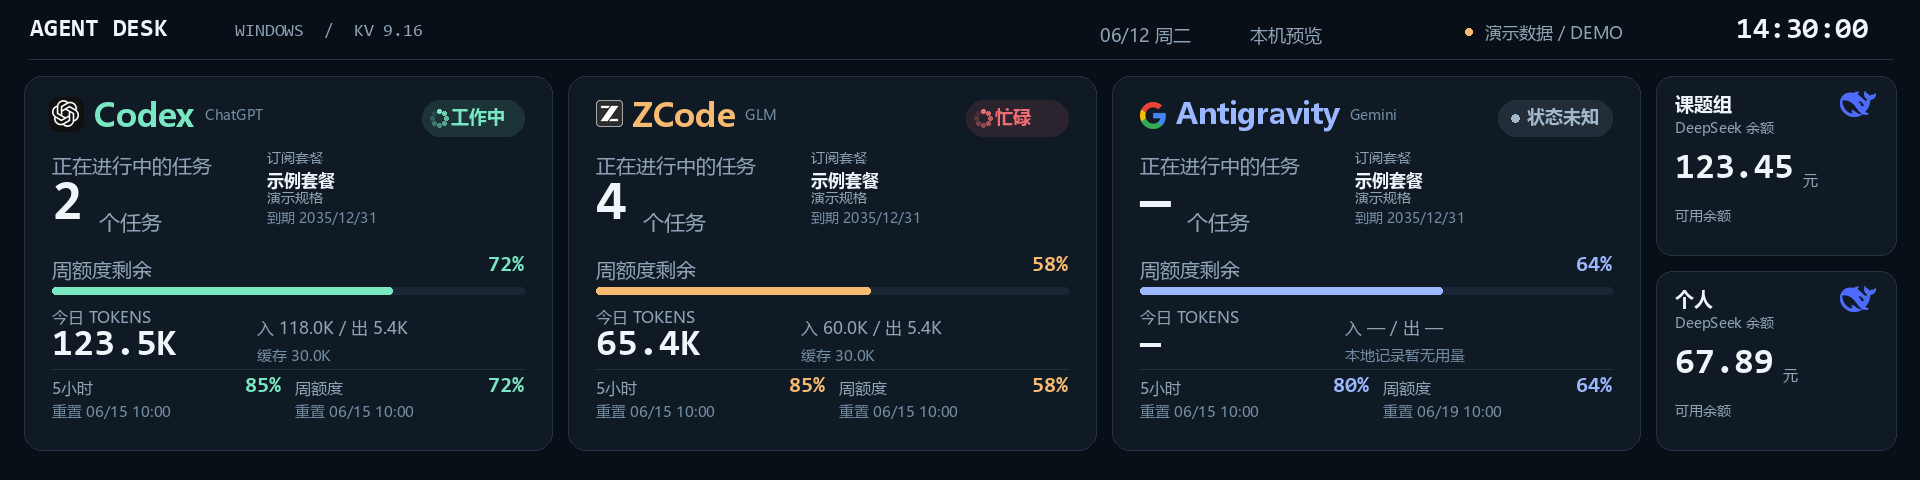
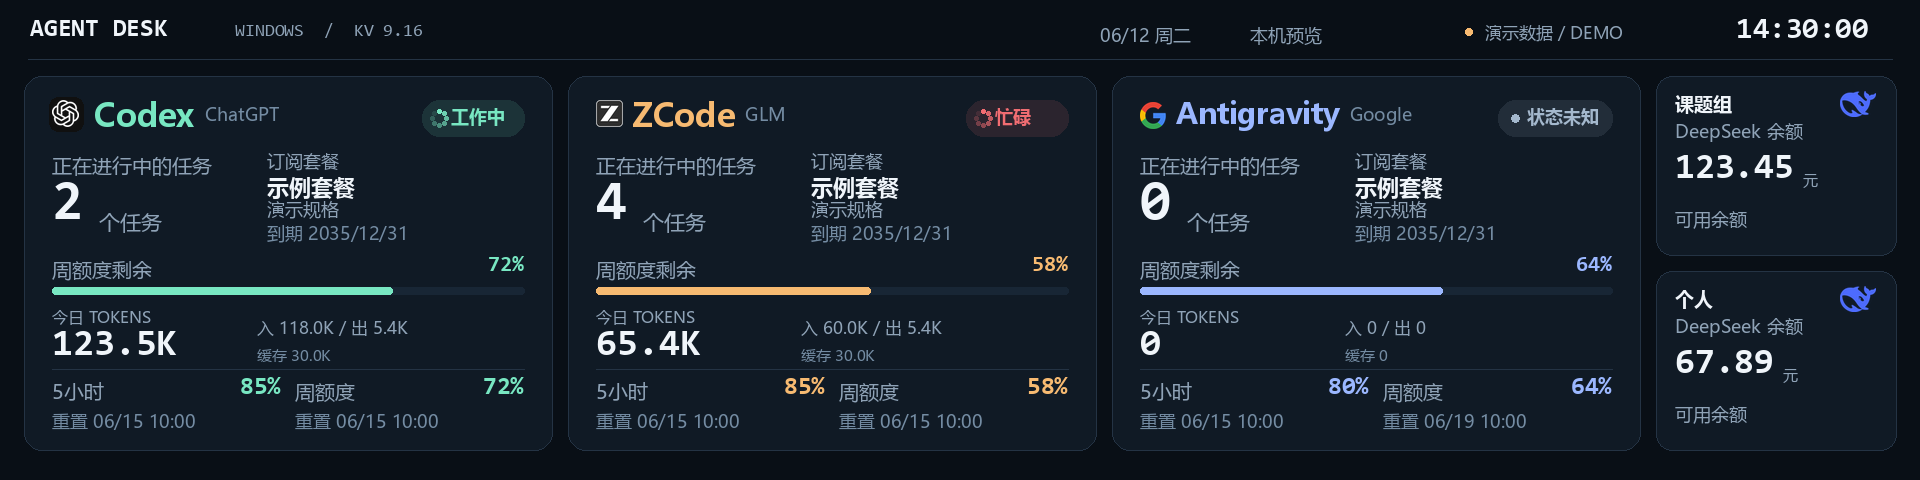
Enlarge dashboard details and show zero for empty usage and tasks

diff --git a/agent_dashboard/render.py b/agent_dashboard/render.py
@@ -47,7 +47,7 @@ _DEFAULT_GEOMETRY = {
 _DEFAULT_RADIUS = {"classic": 18, "aurora": 24, "paper": 10}
 _LOGO_FILES = {"chatgpt": "chatgpt.png", "glm": "glm.png", "google": "google.png", "deepseek": "deepseek.png"}
 _PROVIDER_LOGOS = {"codex": "chatgpt", "zcode": "glm", "antigravity": "google"}
-_PROVIDER_TAGS = {"codex": "ChatGPT", "zcode": "GLM", "antigravity": "Gemini"}
+_PROVIDER_TAGS = {"codex": "ChatGPT", "zcode": "GLM", "antigravity": "Google"}
 
 # Compatibility constants for callers that used the original classic palette.
 BG = _PALETTES["classic"]["background"]
@@ -96,8 +96,9 @@ def short(draw: ImageDraw.ImageDraw, text: object, ft: ImageFont.ImageFont, widt
 
 
 def number(value: int | None) -> str:
+    """Format Token counts, using zero when no usage has been observed."""
     if value is None:
-        return "—"
+        return "0"
     if value >= 1_000_000_000:
         return f"{value / 1_000_000_000:.2f}B"
     if value >= 1_000_000:
@@ -322,7 +323,7 @@ def _draw_agent_header(image: Image.Image | None, draw: ImageDraw.ImageDraw, dat
 
     state_font = font(18, True, scale=scale)
     title_font = font(32 if provider != "antigravity" else 29, True, scale=scale)
-    tag_font = font(14, False, scale=scale)
+    tag_font = font(18, False, scale=scale)
     chip_width = max(102, int(draw.textlength(label, font=state_font)) + 42)
     chip_left = right - chip_width
     draw.rounded_rectangle((chip_left, y + 24, right, y + 60), radius=18,
@@ -358,7 +359,10 @@ def _draw_agent_header(image: Image.Image | None, draw: ImageDraw.ImageDraw, dat
         tag_x = title_x + title_width + 10
         remaining = chip_left - tag_x - 8
         if remaining >= 30:
-            draw.text((tag_x, y + 29), short(draw, tag, tag_font, remaining), fill=colors["subtle"], font=tag_font)
+            tag = short(draw, tag, tag_font, remaining)
+            _, tag_top, _, tag_bottom = draw.textbbox((0, 0), tag, font=tag_font)
+            tag_y = round(center_y - (tag_top + tag_bottom) / 2)
+            draw.text((tag_x, tag_y), tag, fill=colors["subtle"], font=tag_font)
     return left, right
 
 
@@ -394,8 +398,8 @@ def _draw_plan(draw: ImageDraw.ImageDraw, data: dict, x: int, y: int, width: int
     colors, scale = design["colors"], design["font_scale"]
     subscription = data.get("subscription") or {}
     if compact:
-        prefix_font, value_font, detail_font = font(14, scale=scale), font(17, True, scale=scale), font(14, scale=scale)
-        line_gap = 20
+        prefix_font, value_font, detail_font = font(18, scale=scale), font(22, True, scale=scale), font(18, scale=scale)
+        line_gap = 24
     else:
         prefix_font, value_font, detail_font = font(16, scale=scale), font(22, True, scale=scale), font(16, scale=scale)
         line_gap = 27
@@ -416,7 +420,7 @@ def _draw_token_block(draw: ImageDraw.ImageDraw, data: dict, x: int, y: int, wid
     main = number(value if isinstance(value, int) and not isinstance(value, bool) else None)
     label = metrics["date_label"]
     detail = f"入 {number(tokens.get('input'))}  /  出 {number(tokens.get('output'))}"
-    tail = f"缓存 {number(tokens.get('cached'))}" if tokens.get("known") else "本地记录暂无用量"
+    tail = f"缓存 {number(tokens.get('cached'))}"
     label_font, main_font = font(16, scale=scale), font(size, True, True, scale)
     detail_font, tail_font = font(16, scale=scale), font(14, scale=scale)
     draw.text((x, y), short(draw, label, label_font, width), fill=colors["muted"], font=label_font)
@@ -433,7 +437,7 @@ def _draw_footer_windows(draw: ImageDraw.ImageDraw, data: dict, x: int, y: int, 
     subscription = metrics["subscription"]
     windows = [(subscription.get("five_hour") or {}, "5小时"), (subscription.get("weekly") or {}, "周额度")]
     col_width = (width - 14) // 2
-    label_font, value_font, reset_font = font(16, scale=scale), font(22, True, True, scale), font(15, scale=scale)
+    label_font, value_font, reset_font = font(20, scale=scale), font(25, True, True, scale), font(18, scale=scale)
     for index, (window, title) in enumerate(windows):
         start_x = x + index * (col_width + 14)
         percent = _window_percent(window)
@@ -442,7 +446,7 @@ def _draw_footer_windows(draw: ImageDraw.ImageDraw, data: dict, x: int, y: int, 
         draw.text((start_x + col_width - draw.textlength(text_value, font=value_font), y - 2), text_value,
                   fill=colors.get(metrics["provider"], colors["text"]), font=value_font)
         reset = "订阅无限额" if window.get("unlimited") else _window_reset(window)
-        draw.text((start_x, y + 24), short(draw, reset, reset_font, col_width), fill=colors["subtle"], font=reset_font)
+        draw.text((start_x, y + 31), short(draw, reset, reset_font, col_width), fill=colors["subtle"], font=reset_font)
 
 
 def _draw_agent_classic(image: Image.Image | None, draw: ImageDraw.ImageDraw, data: dict,
@@ -456,7 +460,7 @@ def _draw_agent_classic(image: Image.Image | None, draw: ImageDraw.ImageDraw, da
     metrics = _agent_metrics(data, now.date().isoformat())
     small, large = font(20, scale=scale), font(56, True, True, scale)
     label = "正在进行中的任务"
-    count = str(metrics["count"]) if isinstance(metrics["count"], int) else "—"
+    count = str(metrics["count"]) if isinstance(metrics["count"], int) else "0"
     draw.text((left, y + 75), label, fill=colors["muted"], font=small)
     draw.text((left, y + 101), count, fill=colors["text"], font=large)
     count_width = draw.textlength(count, font=large)
@@ -472,7 +476,7 @@ def _draw_agent_classic(image: Image.Image | None, draw: ImageDraw.ImageDraw, da
     token_value = number(metrics["token_value"] if isinstance(metrics["token_value"], int) else None)
     draw.text((left, token_y + 20), token_value, fill=colors["text"], font=font(38, True, True, scale))
     detail = f"入 {number((metrics['tokens'] or {}).get('input'))} / 出 {number((metrics['tokens'] or {}).get('output'))}"
-    cached = f"缓存 {number((metrics['tokens'] or {}).get('cached'))}" if (metrics["tokens"] or {}).get("known") else "本地记录暂无用量"
+    cached = f"缓存 {number((metrics['tokens'] or {}).get('cached'))}"
     draw.text((left + 205, token_y + 10), short(draw, detail, font(17, scale=scale), right - left - 210),
               fill=colors["muted"], font=font(17, scale=scale))
     draw.text((left + 205, token_y + 39), short(draw, cached, font(15, scale=scale), right - left - 210),
@@ -492,7 +496,7 @@ def _draw_agent_aurora(image: Image.Image | None, draw: ImageDraw.ImageDraw, dat
     _card(draw, x, y, width, height, design, provider)
     left, right = _draw_agent_header(image, draw, data, x, y, width, design, animation_time)
     metrics = _agent_metrics(data, now.date().isoformat())
-    count = str(metrics["count"]) if isinstance(metrics["count"], int) else "—"
+    count = str(metrics["count"]) if isinstance(metrics["count"], int) else "0"
     label = "正在进行中的任务"
     count_font = font(54, True, True, scale)
     draw.text((left, y + 75), label, fill=colors["muted"], font=font(18, scale=scale))
@@ -503,23 +507,23 @@ def _draw_agent_aurora(image: Image.Image | None, draw: ImageDraw.ImageDraw, dat
     quota_left = x + width // 2 + 5
     _draw_progress(draw, quota_left, right, y + 85, data, design, metrics, compact=True)
     weekly = metrics["primary"]
-    draw.text((quota_left, y + 123), short(draw, _window_reset(weekly), font(14, scale=scale), right - quota_left),
-              fill=colors["subtle"], font=font(14, scale=scale))
+    draw.text((quota_left, y + 123), short(draw, _window_reset(weekly), font(18, scale=scale), right - quota_left),
+              fill=colors["subtle"], font=font(18, scale=scale))
 
     plan_x = left
     plan_y = y + 157
     plan_width = right - left
     subscription = metrics["subscription"]
-    line_font = font(15, scale=scale)
-    plan_text = "订阅 " + (subscription.get("plan_name") or "套餐待填写")
+    line_font = font(18, scale=scale)
+    plan_text = "订阅套餐 " + (subscription.get("plan_name") or "套餐待填写")
     draw.text((left, plan_y), short(draw, plan_text, line_font, plan_width), fill=colors["subtle"], font=line_font)
-    detail_font = font(14, scale=scale)
+    detail_font = font(18, scale=scale)
     expiry = expiry_text(subscription.get("expires_at"))
     expiry_width = draw.textlength(expiry, font=detail_font)
     spec_width = max(0, plan_width - expiry_width - 16)
-    draw.text((left, plan_y + 21), short(draw, "规格 " + (subscription.get("plan_spec") or "待填写"),
+    draw.text((left, plan_y + 24), short(draw, "规格 " + (subscription.get("plan_spec") or "待填写"),
                                      detail_font, spec_width), fill=colors["muted"], font=detail_font)
-    draw.text((right - expiry_width, plan_y + 21), expiry, fill=colors["subtle"], font=detail_font)
+    draw.text((right - expiry_width, plan_y + 24), expiry, fill=colors["subtle"], font=detail_font)
 
     band_y = y + 211
     band_bottom = y + height - 14
@@ -531,7 +535,7 @@ def _draw_agent_aurora(image: Image.Image | None, draw: ImageDraw.ImageDraw, dat
               fill=colors["muted"], font=font(15, scale=scale))
     draw.text((left + 10, band_y + 30), token_total, fill=colors["text"], font=font(34, True, True, scale))
     right_detail = f"入 {number(tokens.get('input'))} / 出 {number(tokens.get('output'))}"
-    cached = f"缓存 {number(tokens.get('cached'))}" if tokens.get("known") else "本地记录暂无用量"
+    cached = f"缓存 {number(tokens.get('cached'))}"
     detail_x = left + 198
     draw.text((detail_x, band_y + 28), short(draw, right_detail, font(16, scale=scale), right - detail_x - 8),
               fill=colors["muted"], font=font(16, scale=scale))
@@ -552,7 +556,7 @@ def _draw_agent_paper(image: Image.Image | None, draw: ImageDraw.ImageDraw, data
     left, right = _draw_agent_header(image, draw, data, x, y, width, design, animation_time)
     metrics = _agent_metrics(data, now.date().isoformat())
     label = "ACTIVE TASKS  ·  进行中任务"
-    count = str(metrics["count"]) if isinstance(metrics["count"], int) else "—"
+    count = str(metrics["count"]) if isinstance(metrics["count"], int) else "0"
     count_font = font(54, True, True, scale)
     draw.text((left, y + 72), label, fill=colors["muted"], font=font(17, scale=scale))
     draw.text((left, y + 92), count, fill=colors["text"], font=count_font)
@@ -560,19 +564,19 @@ def _draw_agent_paper(image: Image.Image | None, draw: ImageDraw.ImageDraw, data
               "个任务", fill=colors["muted"], font=font(17, scale=scale))
 
     plan_x = x + width // 2 + 7
-    _draw_plan(draw, data, plan_x, y + 72, right - plan_x, design, compact=True)
-    draw.line((left, y + 153, right, y + 153), fill=colors["edge"], width=1)
+    _draw_plan(draw, data, plan_x, y + 66, right - plan_x, design, compact=True)
+    draw.line((left, y + 166, right, y + 166), fill=colors["edge"], width=1)
 
     quota = metrics["primary"]
     title = "周额度剩余"
     percent = _window_percent(quota)
     pct_text = "—" if percent is None else f"{percent:g}%"
-    draw.text((left, y + 164), short(draw, title, font(18, scale=scale), width - 140),
+    draw.text((left, y + 175), short(draw, title, font(18, scale=scale), width - 140),
               fill=colors["muted"], font=font(18, scale=scale))
     pct_font = font(23, True, True, scale)
-    draw.text((right - draw.textlength(pct_text, font=pct_font), y + 160), pct_text,
+    draw.text((right - draw.textlength(pct_text, font=pct_font), y + 171), pct_text,
               fill=colors.get(provider, colors["text"]), font=pct_font)
-    bar_y = y + 193
+    bar_y = y + 202
     draw.rectangle((left, bar_y, right, bar_y + 6), fill=colors["surface_alt"])
     if percent is not None and percent > 0:
         draw.rectangle((left, bar_y, left + max(5, round((right - left) * percent / 100)), bar_y + 6),
@@ -580,19 +584,19 @@ def _draw_agent_paper(image: Image.Image | None, draw: ImageDraw.ImageDraw, data
 
     tokens = metrics["tokens"] or {}
     token_value = number(metrics["token_value"] if isinstance(metrics["token_value"], int) else None)
-    draw.line((left, y + 211, right, y + 211), fill=colors["edge"], width=1)
-    draw.text((left, y + 222), short(draw, metrics["date_label"], font(15, scale=scale), 185),
+    draw.line((left, y + 219, right, y + 219), fill=colors["edge"], width=1)
+    draw.text((left, y + 228), short(draw, metrics["date_label"], font(15, scale=scale), 185),
               fill=colors["muted"], font=font(15, scale=scale))
-    draw.text((left, y + 242), token_value, fill=colors["text"], font=font(34, True, True, scale))
+    draw.text((left, y + 248), token_value, fill=colors["text"], font=font(34, True, True, scale))
     detail_x = left + 200
     token_detail = f"输入 {number(tokens.get('input'))}  ·  输出 {number(tokens.get('output'))}"
-    cache_detail = f"缓存 {number(tokens.get('cached'))}" if tokens.get("known") else "本地记录暂无用量"
-    draw.text((detail_x, y + 237), short(draw, token_detail, font(15, scale=scale), right - detail_x),
+    cache_detail = f"缓存 {number(tokens.get('cached'))}"
+    draw.text((detail_x, y + 243), short(draw, token_detail, font(15, scale=scale), right - detail_x),
               fill=colors["muted"], font=font(15, scale=scale))
-    draw.text((detail_x, y + 262), short(draw, cache_detail, font(14, scale=scale), right - detail_x),
+    draw.text((detail_x, y + 269), short(draw, cache_detail, font(14, scale=scale), right - detail_x),
               fill=colors["subtle"], font=font(14, scale=scale))
-    draw.line((left, y + 292, right, y + 292), fill=colors["edge"], width=1)
-    _draw_footer_windows(draw, data, left, y + 302, right - left, design, metrics)
+    draw.line((left, y + 299, right, y + 299), fill=colors["edge"], width=1)
+    _draw_footer_windows(draw, data, left, y + 307, right - left, design, metrics)
     if data.get("stale"):
         draw.text((left, min(y + height + 3, SIZE[1] - 22)), "数据待检查更新",
                   fill=colors["subtle"], font=font(14, scale=scale))
@@ -627,7 +631,7 @@ def draw_account(image: Image.Image, draw: ImageDraw.ImageDraw, data: dict, x: i
     compact = width < 300
     title = ("课题组" if data.get("id") == "deepseek_lab" else "个人") if compact else data.get("name", "账户")
     title_font = font(19 if compact else 20, True, scale=scale)
-    subtitle_font = font(14 if compact else 15, scale=scale)
+    subtitle_font = font(18, scale=scale)
     draw.text((left, y + 14), short(draw, title, title_font, width - 76), fill=colors["text"], font=title_font)
     weekly = data.get("kind") == "weekly"
     subtitle = "周额度剩余" if weekly else "DeepSeek 余额" if compact else "账户余额"
@@ -666,8 +670,8 @@ def draw_account(image: Image.Image, draw: ImageDraw.ImageDraw, data: dict, x: i
         line = "账户已用尽" if data.get("is_available") is False else "可用余额"
     else:
         line = "数据待补充"
-    draw.text((left, line_y), short(draw, line, font(14, scale=scale), width - 38),
-              fill=colors["muted"], font=font(14, scale=scale))
+    draw.text((left, line_y), short(draw, line, font(18, scale=scale), width - 38),
+              fill=colors["muted"], font=font(18, scale=scale))
     if data.get("stale"):
         draw.text((left, y + height - 23), "数据待检查更新", fill=colors["subtle"], font=font(14, scale=scale))
 

diff --git a/tests/test_render.py b/tests/test_render.py
@@ -26,7 +26,7 @@ class RenderTests(unittest.TestCase):
         self.assertEqual(render({"agents": agents}).size, (1920, 480))
 
     def test_cached_is_never_added_to_total_by_renderer(self):
-        self.assertEqual(number(None), "—")
+        self.assertEqual(number(None), "0")
         self.assertEqual(number(1000), "1.0K")
         self.assertEqual(number(1234567), "1.23M")
         self.assertEqual(number(100_000_000), "100.00M")

diff --git a/agent_dashboard/__init__.py b/agent_dashboard/__init__.py
@@ -1,3 +1,3 @@
 """Local Windows dashboard for Thermalright KV 9.16 LCD."""
 
-__version__ = "0.4.2"
+__version__ = "0.4.3"

diff --git a/README.md b/README.md
@@ -9,14 +9,14 @@ KV Agent Desk 是面向 Windows 的本地 AI Agent 仪表盘，可将 Thermalrig
 ## 功能
 
 - **KV 9.16 LCD 输出**：通过 Windows 自带 WinUSB 接口写入设备，不安装第三方 USB DLL，也不更换设备驱动。逻辑画布为 1920 × 480；当前公开协议资料将 9.16 屏的传输图像识别为 1920 × 462，因此默认按 1920 × 462 发送。若你的屏幕固件使用 480 高度，可在启动参数中试用 `--lcd-height 480`。
-- **Codex / ChatGPT**：读取本机 Codex 会话记录，显示可靠时的工作状态、进行中任务数、当日 Token 和额度窗口。5 小时与周额度依据本机实际记录；无法读取时显示未知。若账户确实没有 5 小时窗口，可在控制页勾选“ChatGPT 无5小时限额”，此个人设置会将该窗口显示为 100%。
+- **Codex / ChatGPT**：读取本机 Codex 会话记录，显示可靠时的工作状态、进行中任务数、当日 Token 和额度窗口。5 小时与周额度依据本机实际记录；无法读取时额度保持未知。若账户确实没有 5 小时窗口，可在控制页勾选“ChatGPT 无5小时限额”，此个人设置会将该窗口显示为 100%。
 - **ZCode**：只读本地会话数据库，显示可靠时的工作状态、进行中任务数、当日 Token；对于当前选中的官方 Coding Plan，尝试读取额度、套餐信息和重置时间。
-- **Antigravity / Gemini**：从已运行的本机 language server 查询 Gemini 共享额度组，分别展示 5 小时、周剩余额度与重置时间。Claude/GPT 额度组不参与面板；旧接口未报告的窗口保持未知或保留最近可信值。任务数和 Token 暂无可靠来源时显示 `—`。
+- **Antigravity / Gemini**：从已运行的本机 language server 查询 Gemini 共享额度组，分别展示 5 小时、周剩余额度与重置时间。Claude/GPT 额度组不参与面板；旧接口未报告的窗口保持未知或保留最近可信值。
 - **两个 DeepSeek 余额卡片**：分别为“课题组”和“个人”预留独立槽位；只调用 DeepSeek 官方余额 GET 接口，不发起模型推理请求。需要在 Windows 环境变量中配置 `DeepSeek_public` 和/或 `DeepSeek_personal`。
 - **手动套餐资料**：Codex、ZCode、Antigravity 均可手动补充套餐名称、规格和到期日期；手动填写优先显示，清空后恢复自动信息。
 - **保留最后可信数据**：来源暂不可读或数据过期时继续展示最后值，并用低调提示标记“数据待检查更新”；开机时先恢复上次屏幕画面，再更新来源数据。
 
-LCD 不显示任务名称或计划步骤，只显示进行中的任务数和周额度百分比。未知额度保持未知，不将其伪装为 0% 或 100%。
+LCD 不显示任务名称或计划步骤，只显示进行中的任务数和周额度百分比。未知额度保持未知，不将其伪装为 0% 或 100%。任务数或 Token 用量没有可信当前值且没有可信历史时显示 `0` 占位；已有可信历史继续保留。此时的 `0` 不代表已采集到 0 项任务或 0 Token。
 
 ## 运行要求
 
@@ -67,9 +67,9 @@ dist\KV-Agent-Desk.exe --preview-only
 
 | 面板 | 数据来源 | 能显示什么 | 目前的边界 |
 | --- | --- | --- | --- |
-| Codex | 本机 Codex session JSONL | 状态、进行中任务数、当日 Token、已观察到的额度窗口 | Codex 本地记录格式可能变化；没有观测到的字段会显示未知。 |
+| Codex | 本机 Codex session JSONL | 状态、进行中任务数、当日 Token、已观察到的额度窗口 | Codex 本地记录格式可能变化；未观测到的额度保持未知。 |
 | ZCode | 本机 ZCode SQLite 会话库；已选官方 Coding Plan 的额度 API | 状态、进行中任务数、当日 Token、套餐/额度和重置时间 | 额度刷新依赖当前选中的套餐配置和官方接口可用性。数据库以只读方式打开，不读取消息正文或工具参数。 |
-| Antigravity | 已运行的官方客户端 language server 的共享额度摘要 | Gemini 组的 5 小时、周额度及各自重置时间 | 依赖客户端支持共享摘要接口；不把旧逐模型额度当作周额度。Token、任务数暂无可靠来源，套餐资料可手动填写。 |
+| Antigravity | 已运行的官方客户端 language server 的共享额度摘要 | Gemini 组的 5 小时、周额度及各自重置时间 | 依赖客户端支持共享摘要接口；不把旧逐模型额度当作周额度。套餐资料可手动填写。 |
 | DeepSeek | 环境变量中的账户 API Key → DeepSeek 官方余额接口 | 账户余额与币种 | 不代表订阅或周额度；两个账户槽位各自独立，缺少 Key 时不发请求。 |
 
 数据更新目标间隔约 2 秒，来源自身的读取耗时会影响实际间隔；账户余额和供应商额度接口至少间隔 60 秒请求一次。详情见 [隐私与本地数据说明](docs/PRIVACY.md)。

diff --git a/docs/UI-TEMPLATES.md b/docs/UI-TEMPLATES.md
@@ -8,7 +8,7 @@ KV Agent Desk 提供三种内置 LCD 样式：
 
 在控制页选择样式后，应用会记住当前选择，并在下次启动时继续使用。样式只改变 LCD 仪表盘的视觉呈现；它不会更改 Agent 数据来源、采集范围或刷新策略。
 
-三套样式使用一致的数据布局。Token 数字采用十进制单位：K 为千、M 为百万、B 为十亿；缺少可靠数据时显示 `—`。Antigravity 展示 Gemini 共享的 5 小时和周额度，不列出逐模型额度或 Claude/GPT 额度组。
+三套样式使用一致的数据布局。Token 数字采用十进制单位：K 为千、M 为百万、B 为十亿。任务数或 Token 用量没有可信当前值且没有可信历史时显示 `0` 占位；已有可信历史继续保留。此时的 `0` 不代表已采集到 0 项任务或 0 Token，未知额度仍保持未知。Antigravity 展示 Gemini 共享的 5 小时和周额度，不列出逐模型额度或 Claude/GPT 额度组。
 
 ## 导入和导出
 

diff --git a/CHANGELOG.md b/CHANGELOG.md
@@ -1,5 +1,10 @@
 # Changelog
 
+## 0.4.3
+
+- 三套 UI 在暂无任务数或 Token 用量时显示 `0`；已有可信历史继续保留，数据来源的未知标记不变。
+- 放大套餐标题及内容、额度和重置时间、品牌名称、DeepSeek 余额说明，并调整间距。
+
 ## 0.4.2
 
 - 三套 UI 的官方 Logo 按 Agent 名称的实际字形居中对齐。
